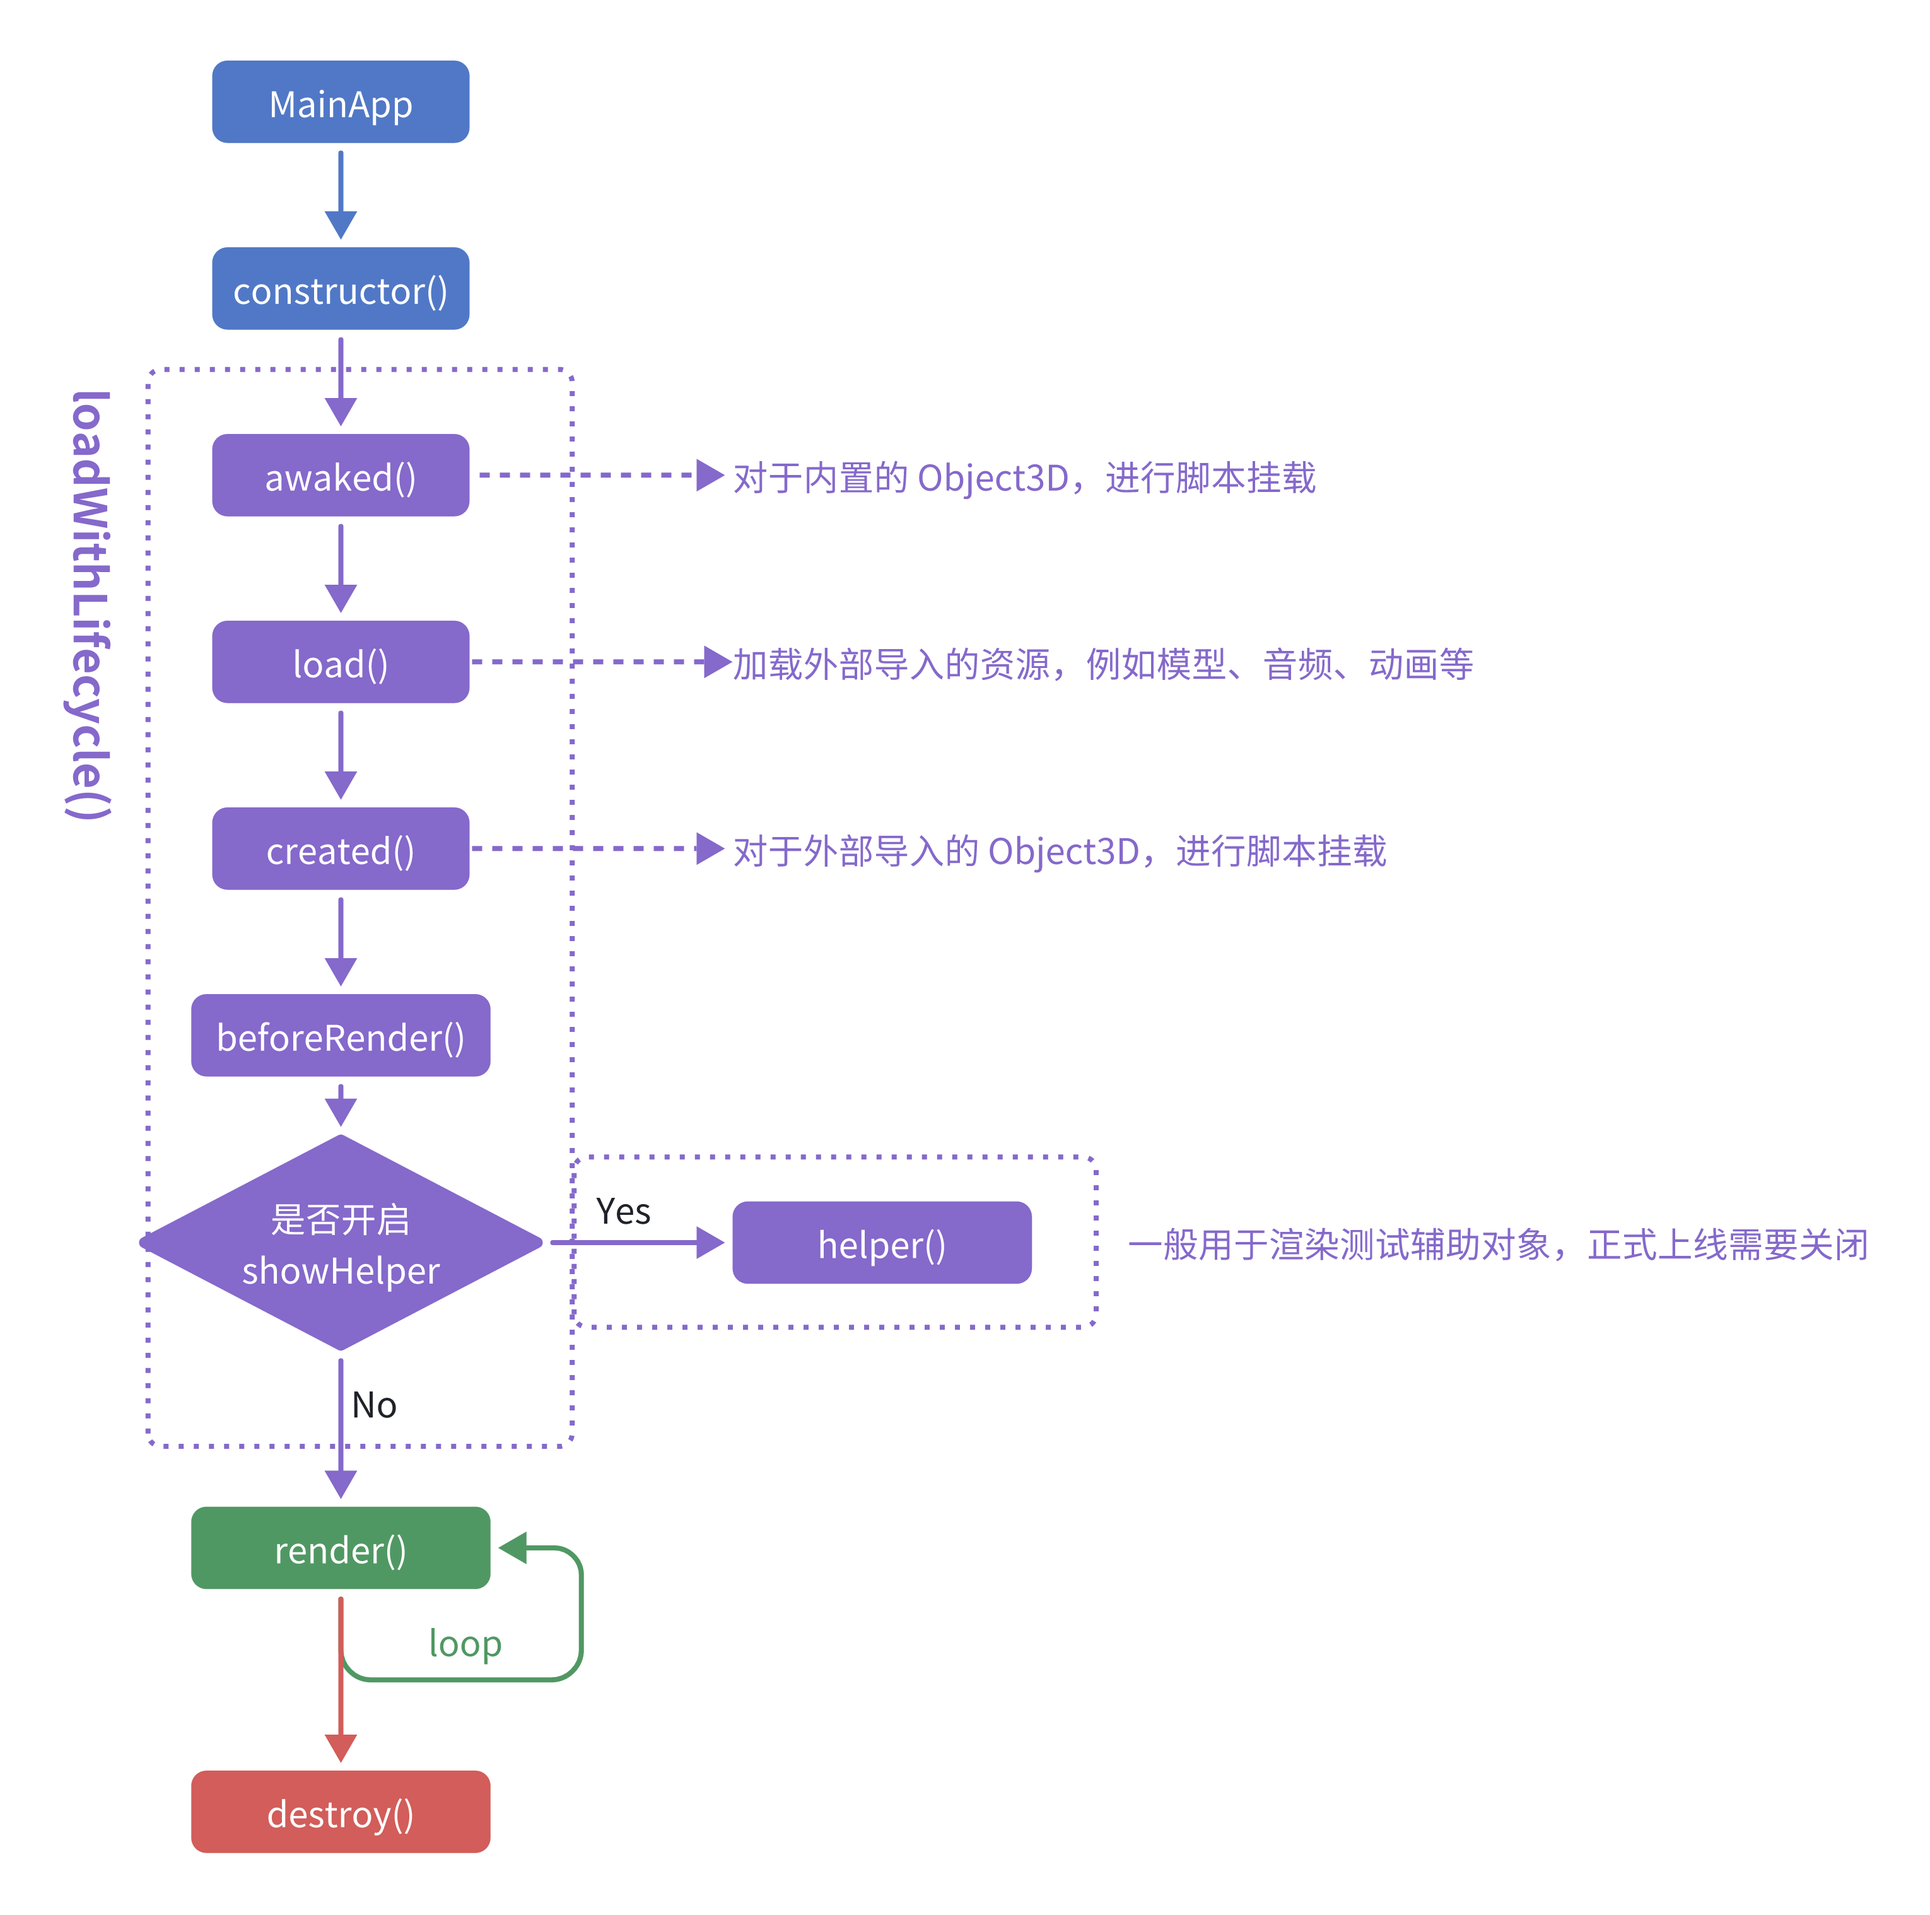
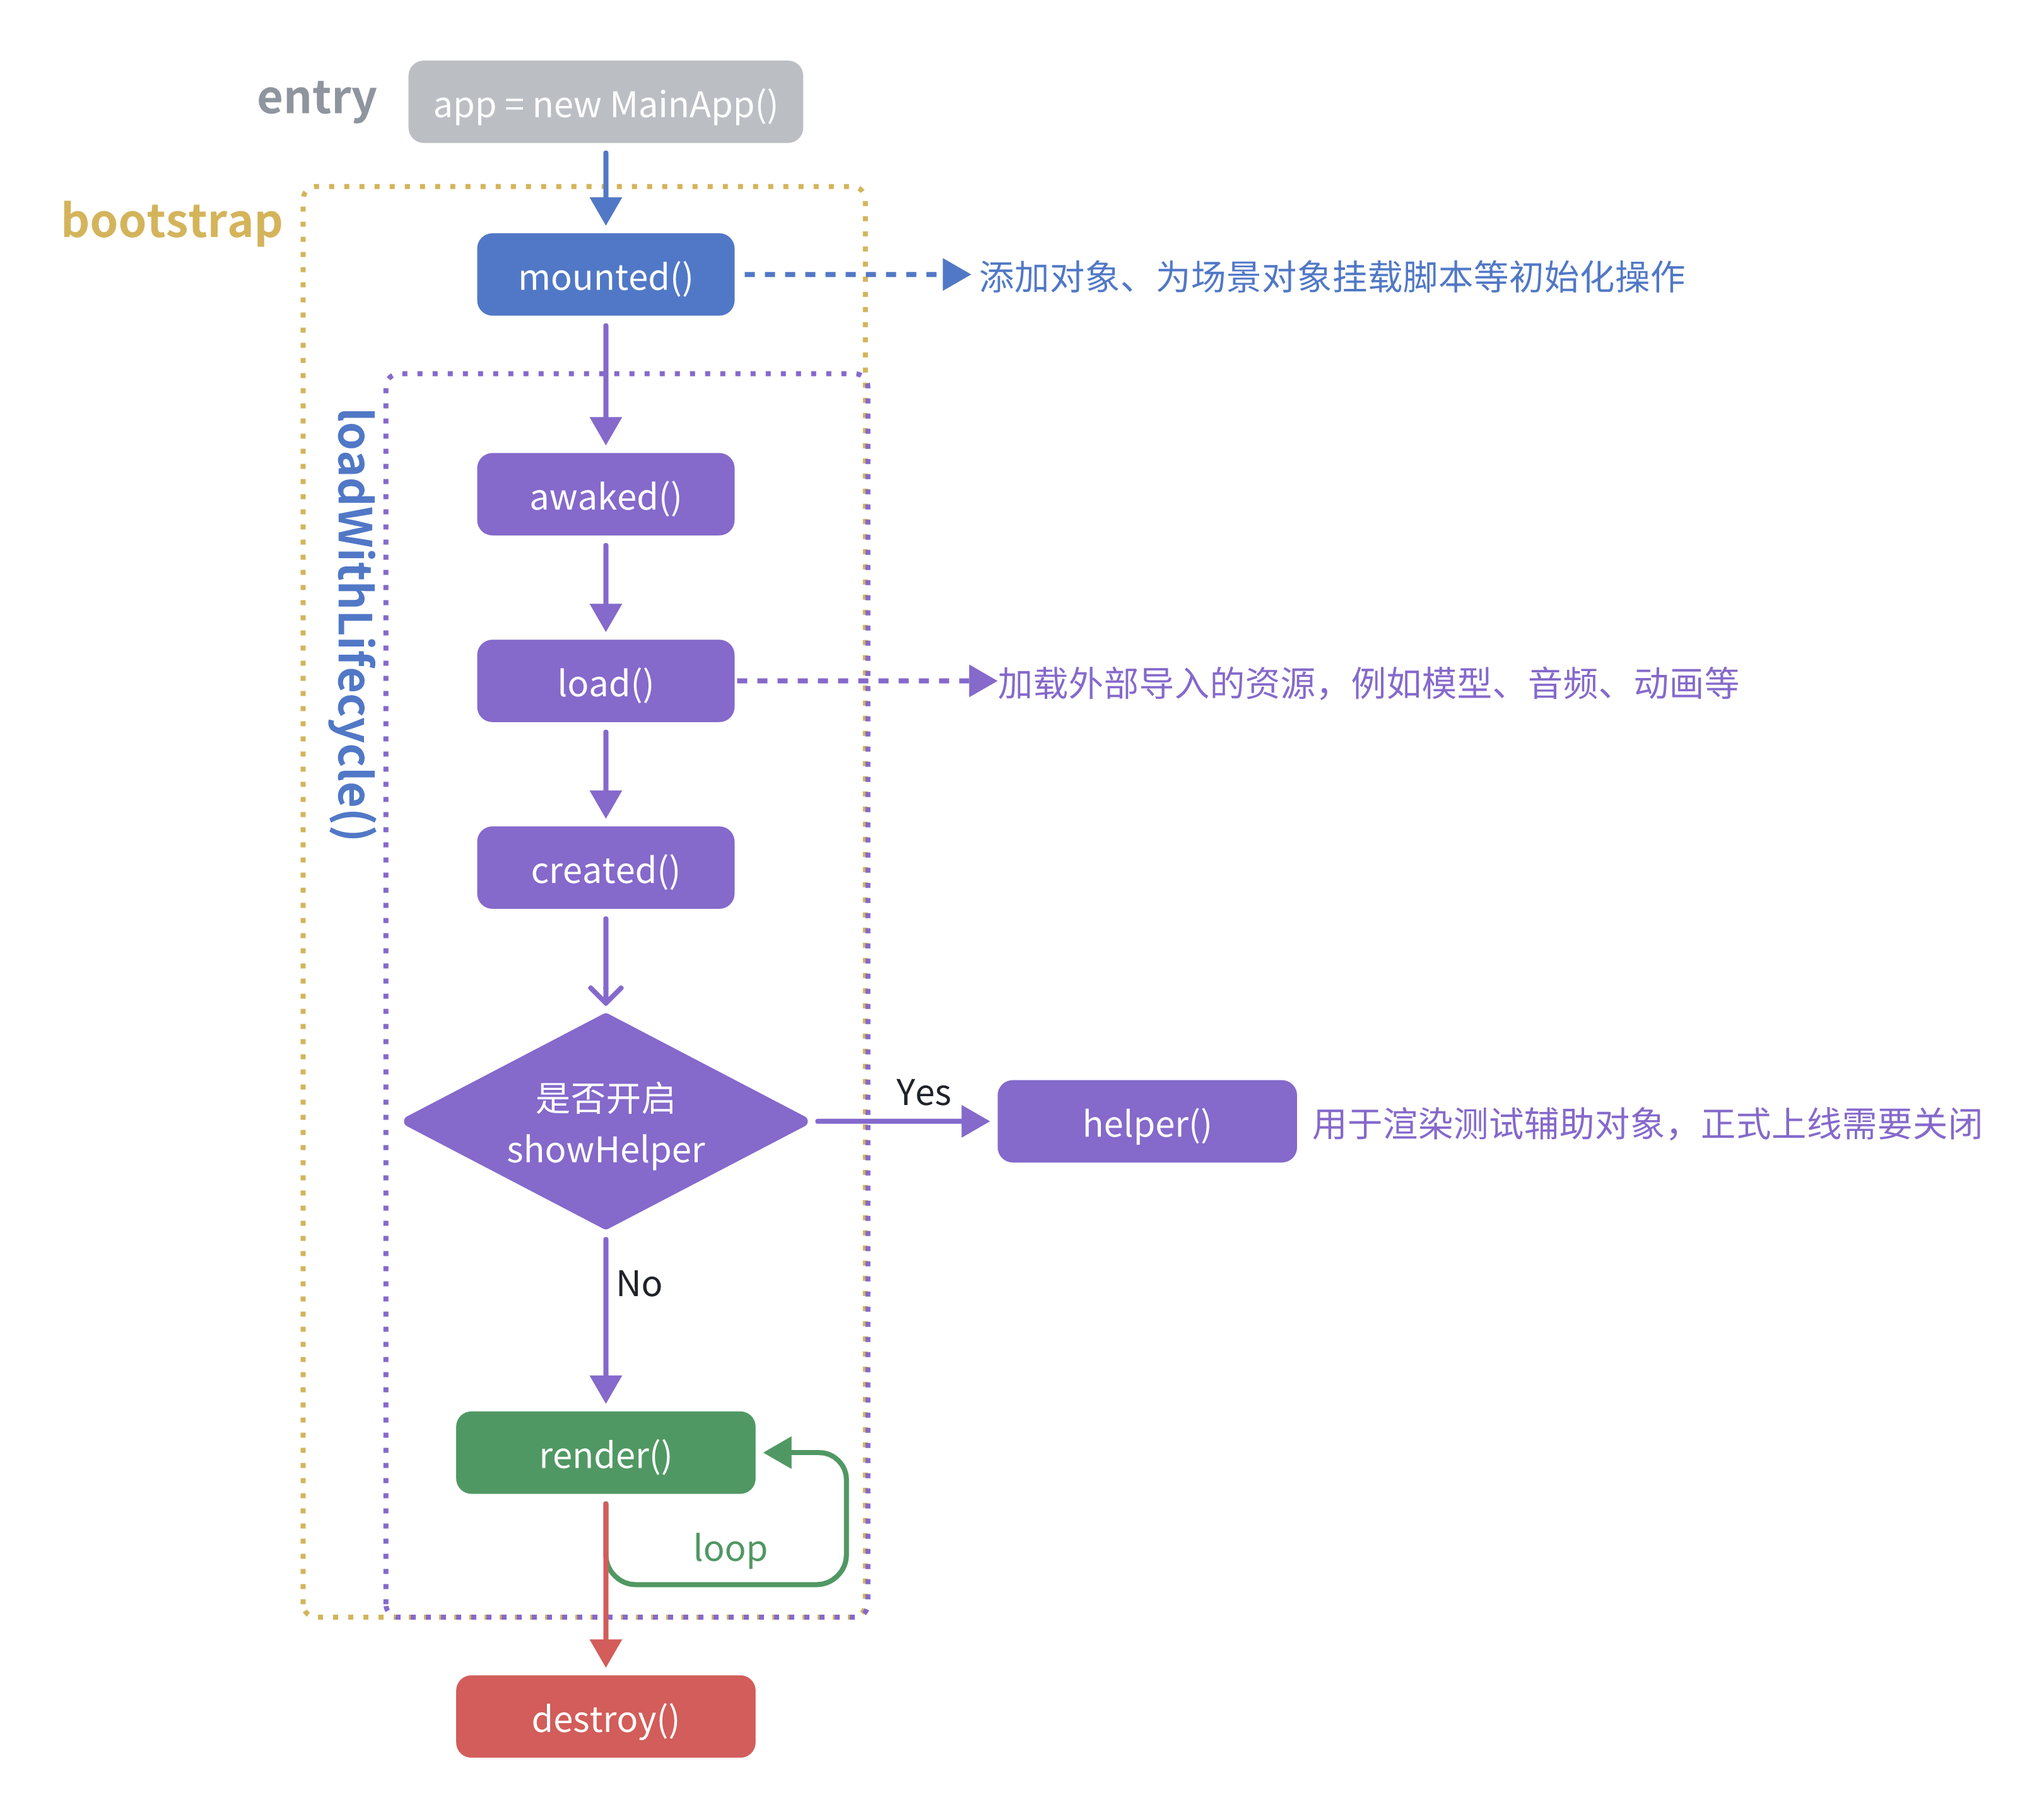
MainApp 文档更新完毕

diff --git a/packages/@ylbupt/three-game-engine/src/models/MainApp.ts b/packages/@ylbupt/three-game-engine/src/models/MainApp.ts
@@ -23,7 +23,6 @@ import { ObjectScript, Script, ScriptCollection } from './Script'
  * @param {string} envMapPath 天空环境贴图路径
  * @param {EnvMapType} envMapType cube 类型，还是 hdr 类型
  * @param {boolean} orbitControl 是否启用控制器
- * @param {boolean} loadWhenConstruct 是否在构造时进行 load
  */
 export interface MainAppOptions {
   backgroundColor?: ColorRepresentation
@@ -32,7 +31,6 @@ export interface MainAppOptions {
   envMapPath?: string
   envMapType?: EnvMapType
   orbitControl?: boolean
-  loadWhenConstruct?: boolean
   showHelper?: boolean
 }
 

diff --git a/packages/@ylbupt/three-game-engine/docs/APIs/MainApp.md b/packages/@ylbupt/three-game-engine/docs/APIs/MainApp.md
@@ -14,7 +14,6 @@
 | `envMapPath` | 环境贴图路径 | `string` | `''` |
 | `envMapType` | 环境贴图是 cube 类型，还是 hdr 类型 | `EnvMapType` | `EnvMapHDR` |
 | `orbitControl` | 是否启用控制器 | `boolean` | `false` |
-| `loadWhenConstruct` | 是否在父构造函数中调用 `loadWithLifecycle()` 方法 | `boolean` | `true` |
 | `showHelper` | 是否调用脚本的 `helper()` 生命周期函数 | `boolean` | `false` |
 
 ## Attributes 
@@ -34,7 +33,7 @@
 | `t` | 运行总时间 (s) | `number` ||
 | `mixers` | 动画混合器，会在 `render()` 的每一帧中进行更新 | `AnimationMixer[]` | `[]` |
 | `loadingManager` | 加载管理器 | `LoadingManager` ||
-| `container` | 挂在 DOM 的 `div` 容器 | `HTMLDivElement` ||
+| `container` | 挂在 `canvas` 的 `div` 容器 | `HTMLDivElement` ||
 | `lookAt` | 相机注视点 | `Vector3: setter getter` ||
 
 ## Methods
@@ -51,7 +50,7 @@ function createRenderer(
 
 #### disposeRenderer()
 
-释放当前 App 的 renderer，调用完该方法后 `this.renderer = null`，并且页面也不在渲染内容
+释放当前 App 的 renderer，调用完该方法后 `this.renderer = null`，并且页面也不再渲染内容
 
 #### updateRenderer()
 
@@ -61,6 +60,8 @@ function updateRenderer(
 ) => void
 ```
 
+更新当前 App 的 renderer，并执行其对应的渲染循环
+
 #### render()
 
 每帧调用的渲染函数，当继承自 `MainApp` 的类想要重写该方法时，必须先调用 `super.render()`
@@ -68,7 +69,7 @@ function updateRenderer(
 ```typescript
 export class App extends MainApp {
   render(){
-    super.render();
+    super.render()
     // code
   }
 }
@@ -79,25 +80,28 @@ export class App extends MainApp {
 加载资源并调用脚本的生命周期函数，脚本的生命周期流程如下图所示
 ![LifeCycle](./images/life-cycle.png)
 
-该方法默认在父构造函数中调用
-
-<mark>TODO</mark>：后续挂载脚本将全部转移到构造函数中，这样脚本的每个生命周期函数都都可以执行到
-
 #### awaked()
 
-执行所有脚本的 `awaked()` 生命周期钩子 
+执行所有脚本的 `awaked()` 生命周期钩子，注意对于外部导入的 3D 对象，在该生命周期钩子无法进行操作，必须要在 `created()` 及其之后才可以操作
 
 #### load()
 
-加载资源
+加载资源，当继承自 `MainApp` 的类想要重写该方法来加载额外资源，同样别忘了调用 `super.load()`，这里建议使用 `Promise.all()` 进行多种资源的加载
+
+```typescript
+async load() {
+  await Promise.all([
+    super.load(),
+    this.model.load()
+  ])
+  /* 将加载的模型添加到场景中 */
+  this.scene.add(this.model.getRootObject()!)
+}
+```
 
 #### created()
 
 执行所有脚本的 `created()` 生命周期钩子 
-
-#### beforeRender()
-
-执行所有脚本的 `beforeRender()` 生命周期钩子 
 
 #### helper()
 

diff --git a/packages/@ylbupt/three-game-engine/docs/_navbar.md b/packages/@ylbupt/three-game-engine/docs/_navbar.md
@@ -1,2 +1,2 @@
 * [快速入门](/Start-Tutorial/index.md)
-* [API参考](/APIs/index.md)
+* [API参考](/APIs/MainApp.md)
